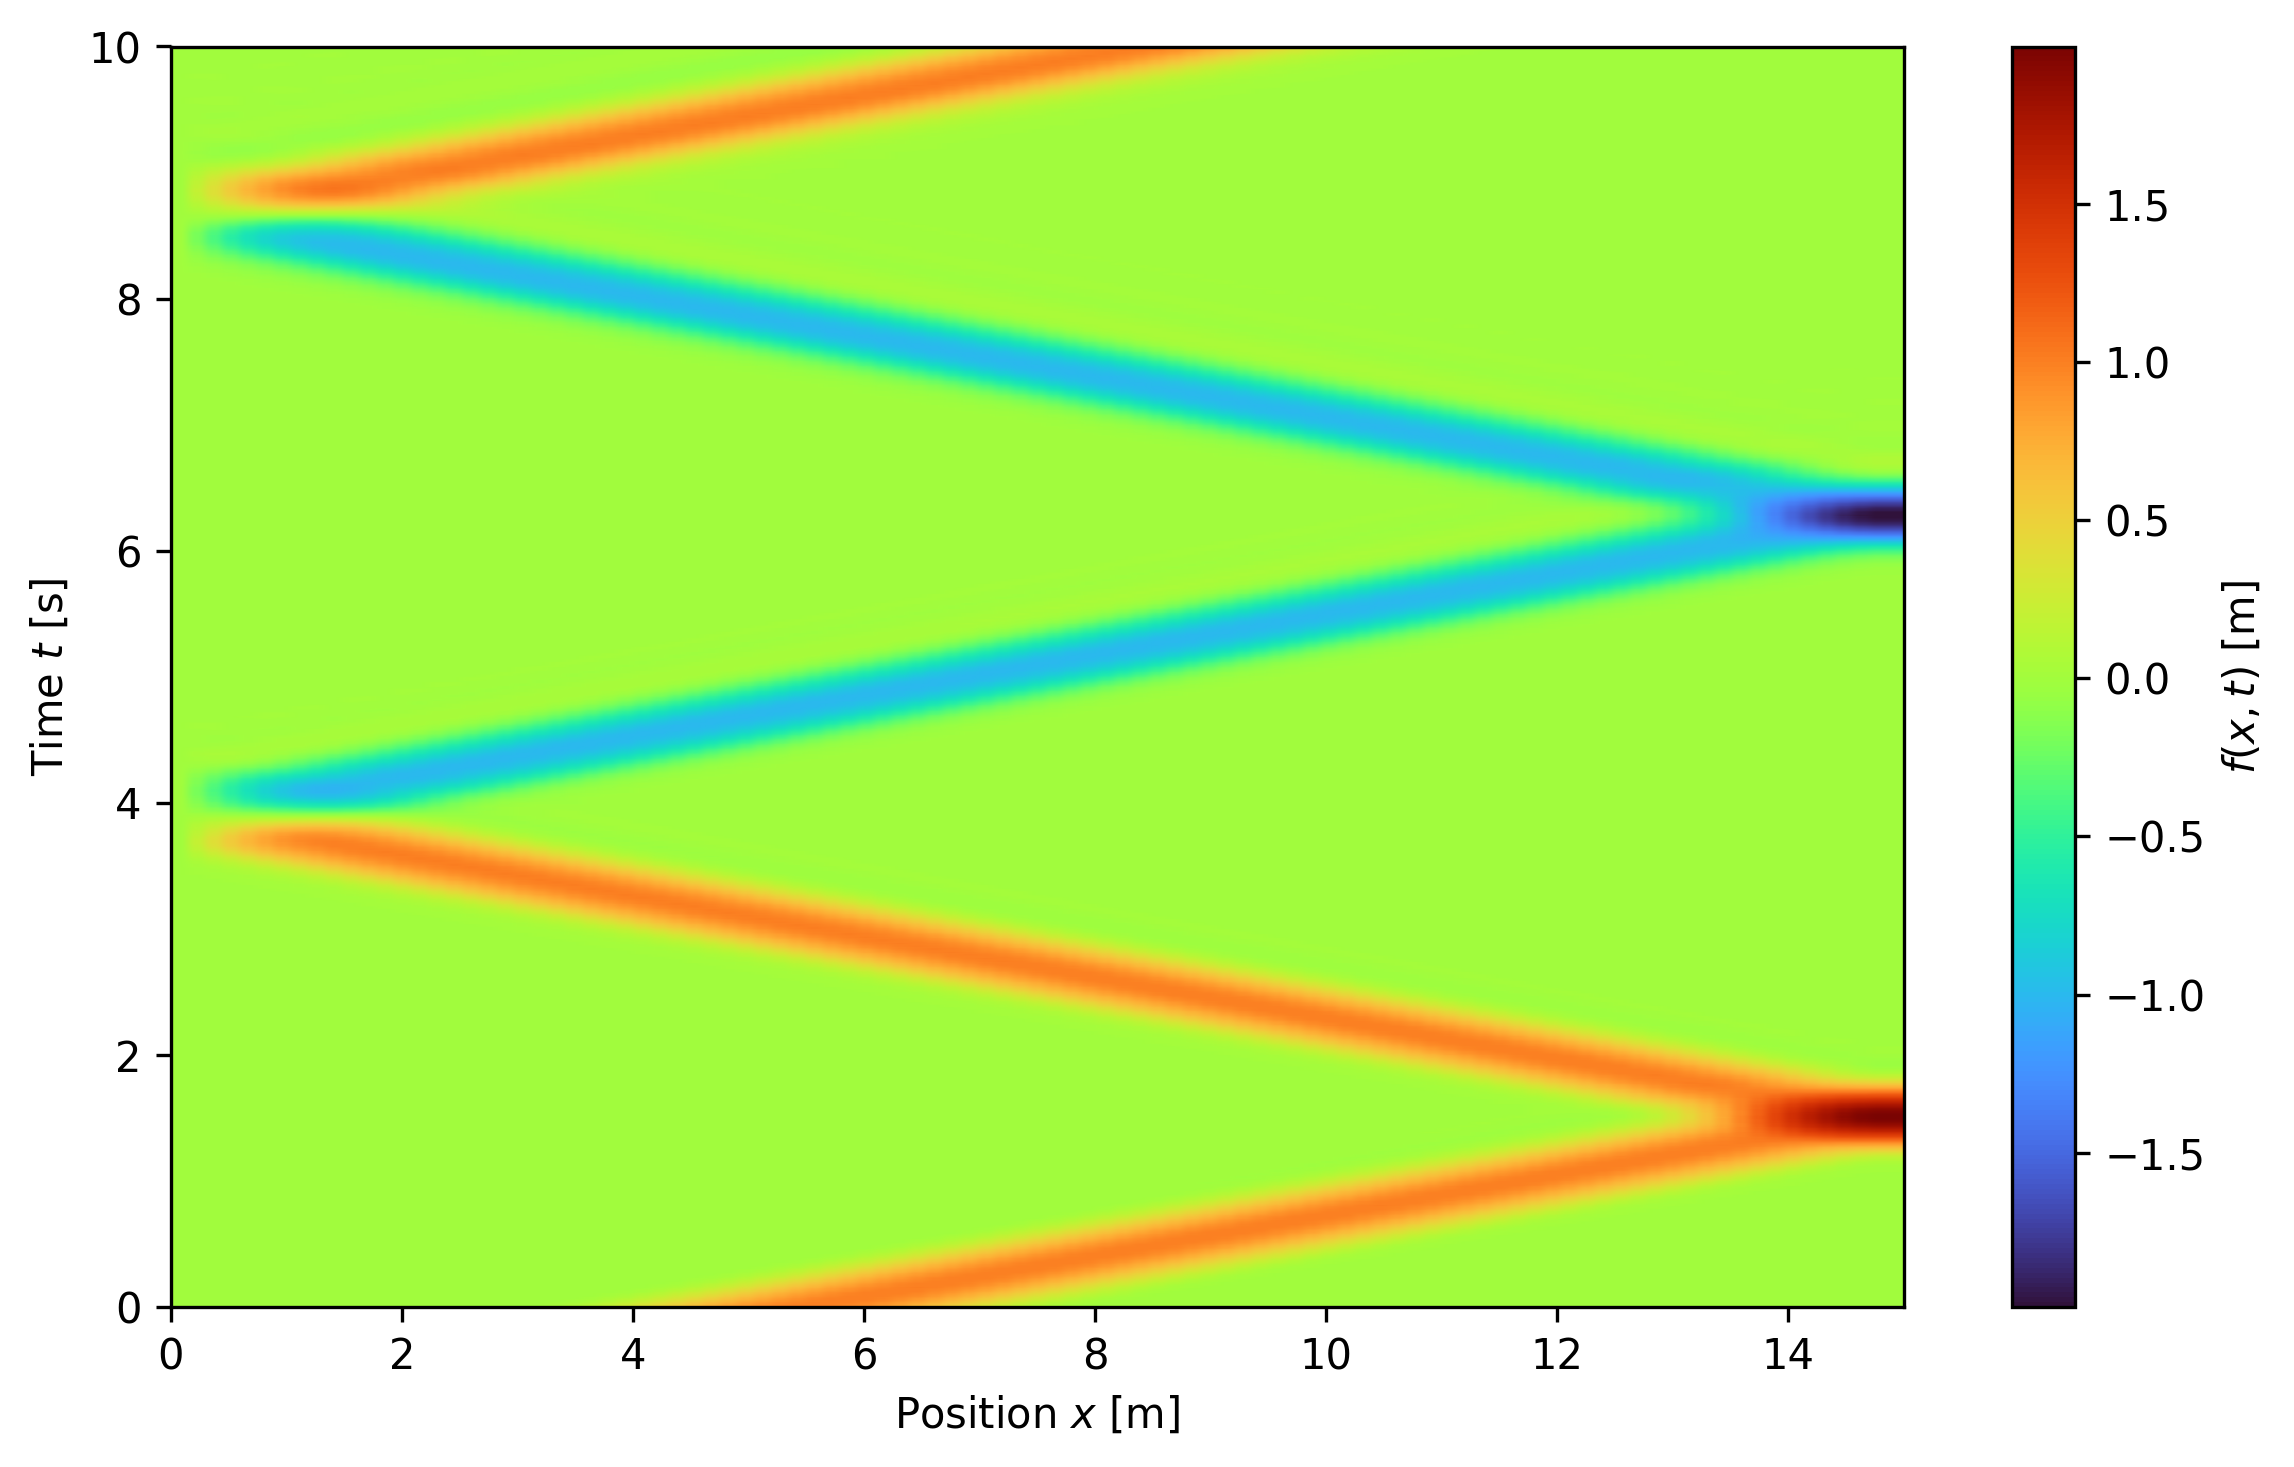
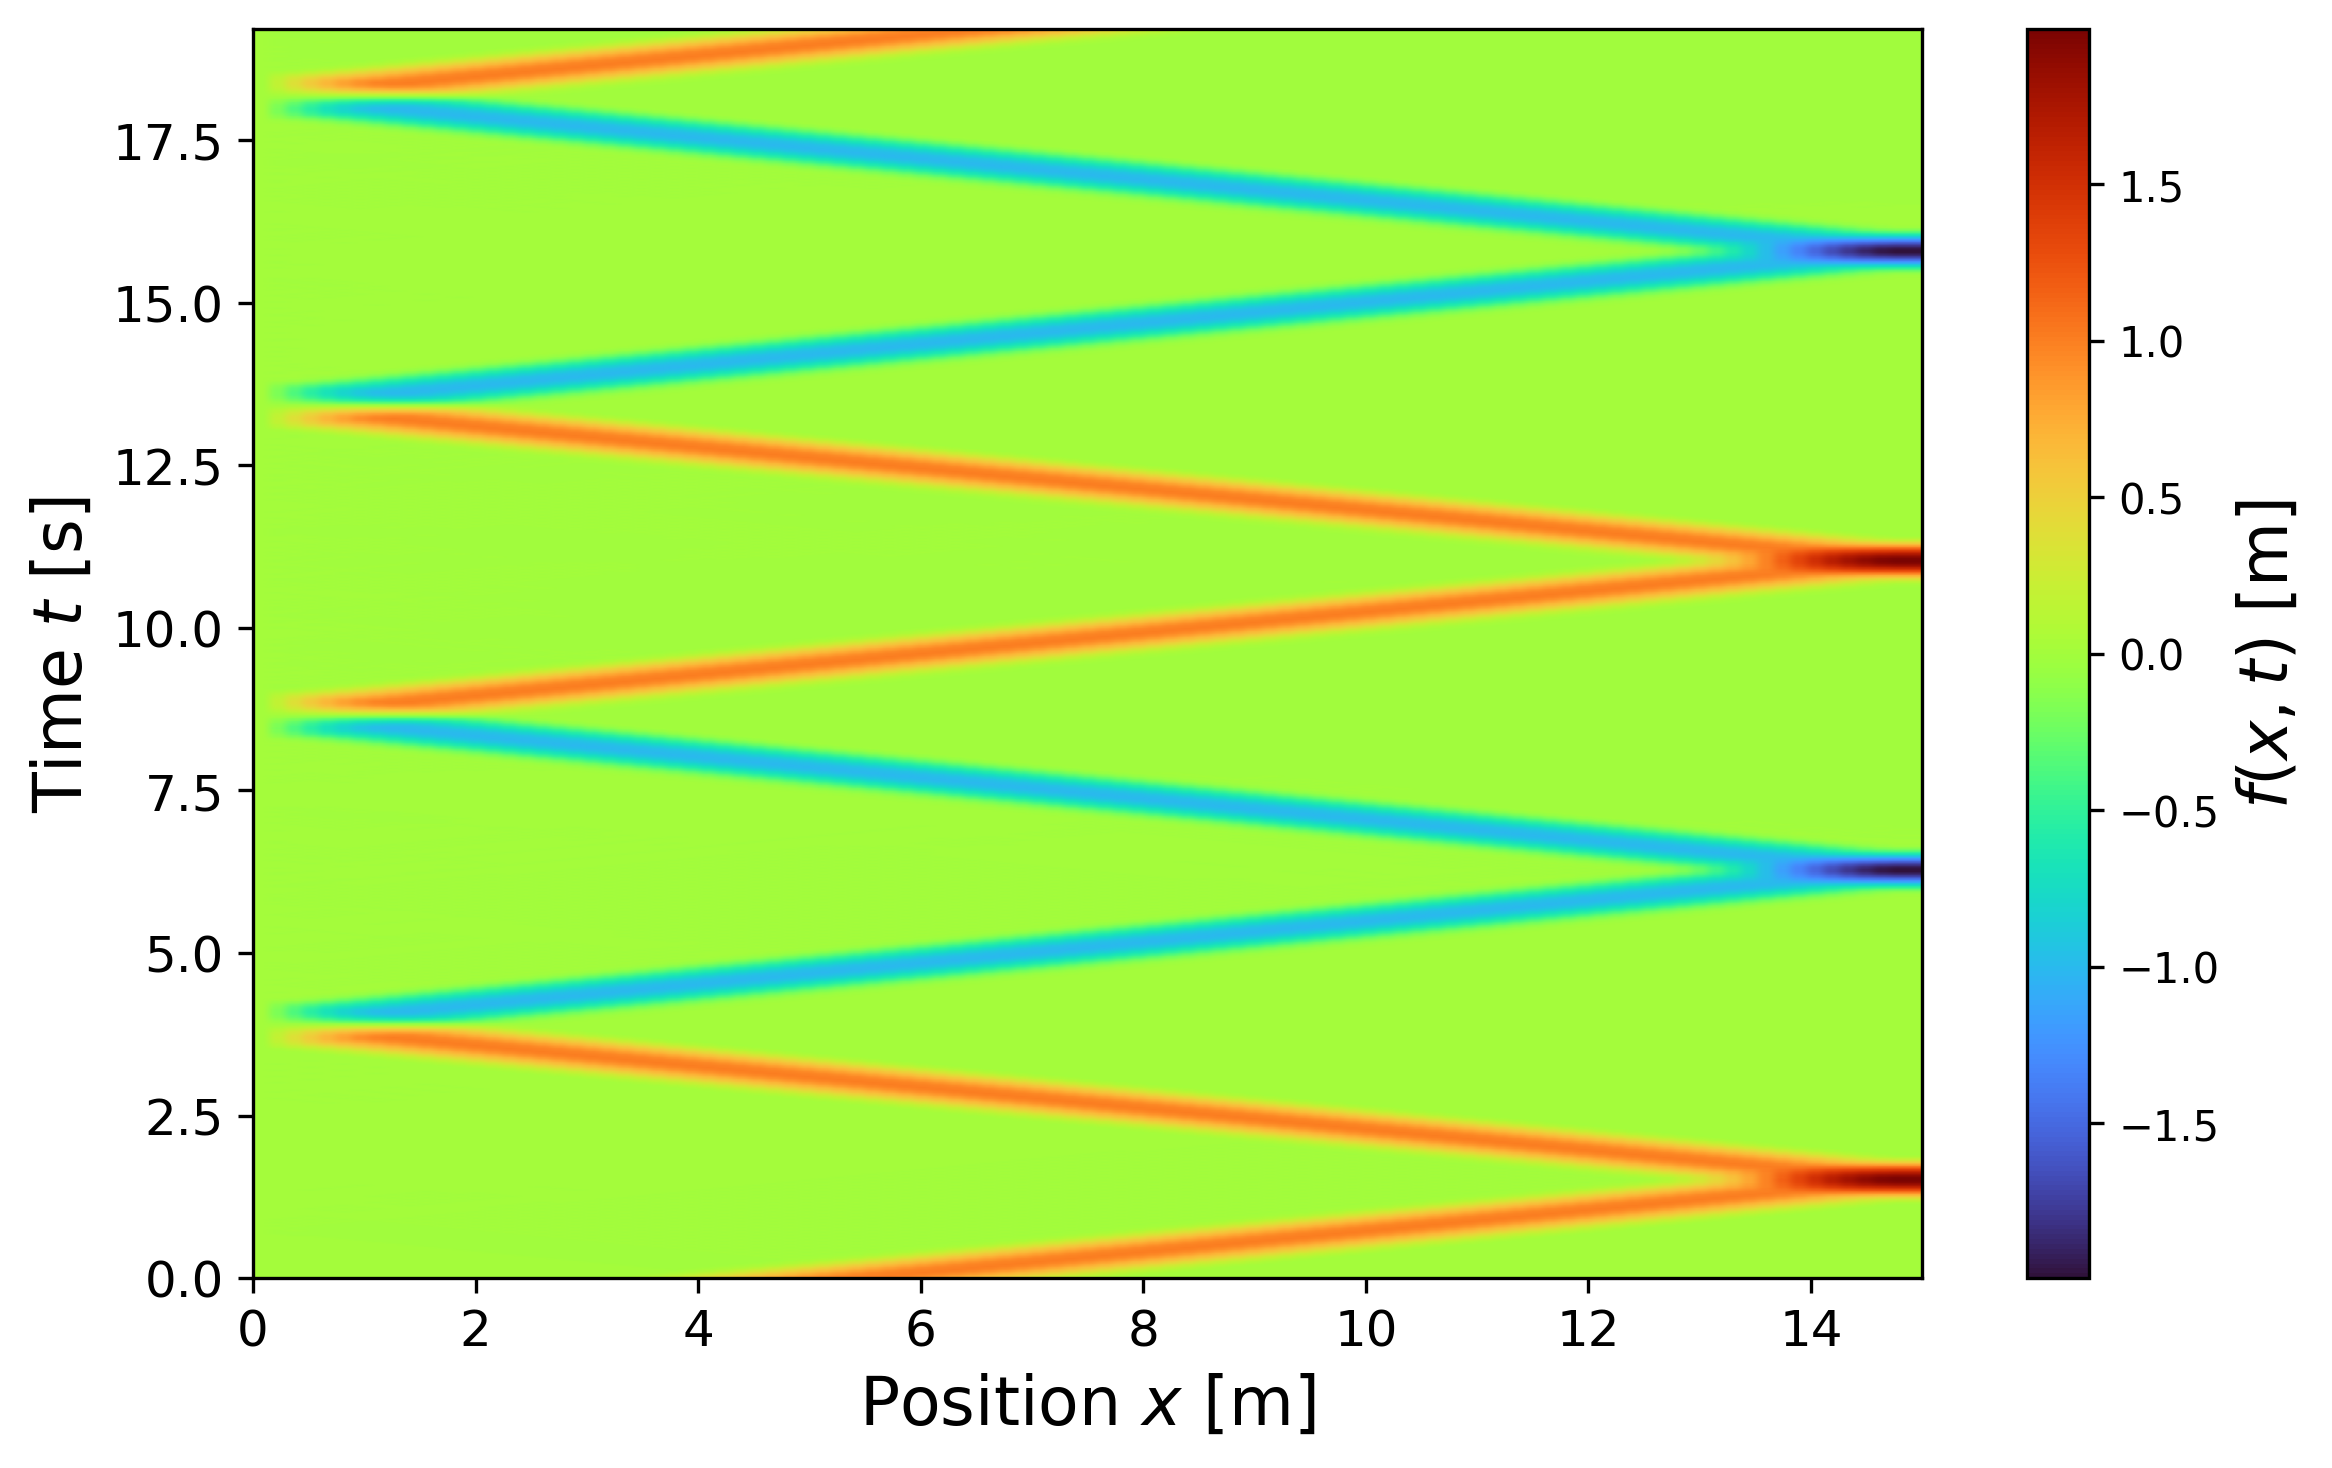
suites questions 5.3

diff --git a/question_5_3_AB.py b/question_5_3_AB.py
@@ -19,13 +19,14 @@ params = fct.read_in_file(input_filename)
  output, n_stride, ecrire_f,
  hL, hR, h00, xa, xb, L, om) = fct.get_wave_params(params)
 
-#cases = ["left", "right", "static"]
-cases = ["left"]
+
+cases = ["left", "right", "static"]
+#cases = ["left"]
 
 
 os.makedirs("outputs", exist_ok=True)
 
-'''
+
 # Run simulations
 for case in cases:
     current_params = params.copy()
@@ -45,12 +46,15 @@ for case in cases:
             f_plot = f
 
         plt.figure(figsize=(8, 5))
-        plt.imshow(f_plot, aspect='auto',
-                   extent=[t[0], t[-1], x[0], x[-1]],
-                   origin='lower', cmap='turbo')
-        plt.colorbar(label=r"$f(x,t)$ [m]")
-        plt.xlabel(r"Time $t$ [s]")
-        plt.ylabel(r"Position $x$ [m]")
+        im = plt.imshow(f_plot, aspect='auto',
+                        extent=[t[0], t[-1], x[0], x[-1]],
+                        origin='lower', cmap='turbo')
+        cbar = plt.colorbar(im)
+        cbar.set_label(r"$f(x,t)$ [m]", fontsize=16)
+        plt.xlabel(r"Time $t$ [s]", fontsize=16)
+        plt.ylabel(r"Position $x$ [m]", fontsize=16)
+        plt.xticks(fontsize=12)  
+        plt.yticks(fontsize=12)
         plt.tight_layout()
         fct.save_figure(f"wave_{case}_x_vs_t.png")
         plt.show()
@@ -67,12 +71,15 @@ for case in cases:
         else:
             f_plot = f
         plt.figure(figsize=(8, 5))
-        plt.imshow(f_plot.T, aspect='auto',  # transpose pour avoir t en y
-                   extent=[x[0], x[-1], t[0], t[-1]],
-                   origin='lower', cmap='turbo')
-        plt.colorbar(label=r"$f(x,t)$ [m]")
-        plt.xlabel(r"Position $x$ [m]")
-        plt.ylabel(r"Time $t$ [s]")
+        im = plt.imshow(f_plot.T, aspect='auto',
+                        extent=[x[0], x[-1], t[0], t[-1]],
+                        origin='lower', cmap='turbo')
+        cbar = plt.colorbar(im)
+        cbar.set_label(r"$f(x,t)$ [m]", fontsize=16)
+        plt.xlabel(r"Position $x$ [m]", fontsize=16)
+        plt.ylabel(r"Time $t$ [s]", fontsize=16)
+        plt.xticks(fontsize=12)  
+        plt.yticks(fontsize=12)
         plt.tight_layout()
         fct.save_figure(f"wave_{case}_t_vs_x.png")
         plt.show()
@@ -85,7 +92,7 @@ for case in cases:
 
 
 # Valeurs de CFL à tester
-beta_values = [0.5, 1.0, 1.0003]  #For static initial state
+beta_values = [0.1, 1.0, 1.0003]  #For static initial state
  
 
 os.makedirs("outputs", exist_ok=True)
@@ -98,7 +105,7 @@ for beta in beta_values:
     fct.run_simulation(executable, "config_5_3a.in", output_name, **current_params)
 
 # Visualisation des résultats
-plt.figure(figsize=(12, 8))
+plt.figure()
 
 for beta in beta_values:
     x, t, f, _, _ = fct.read_wave_data(f"outputs/wave_beta_{beta}")
@@ -113,9 +120,11 @@ for beta in beta_values:
         t_idx = len(t) // 2
         plt.plot(x, f_plot[:, t_idx], label=f"β = {beta}")
 
-plt.xlabel(r"Position $x$ [m]")
-plt.ylabel(r"$f(x, t=t_{fin}/2)$ [m]")
-plt.legend()
+plt.xlabel(r"Position $x$ [m]",fontsize=16)
+plt.ylabel(r"$f(x, t=t_{fin}/2)$ [m]",fontsize=16)
+plt.xticks(fontsize=12)  
+plt.yticks(fontsize=12)
+plt.legend(fontsize=14)
 plt.grid(True)
 plt.tight_layout()
 fct.save_figure("stability_limit_beta.png")
@@ -150,20 +159,20 @@ colors = ['tab:blue', 'tab:orange', 'tab:green']
 idx_times = [np.abs(t - target).argmin() for target in target_times]
 
 # Plot
-plt.figure(figsize=(10, 6))
+plt.figure()
 for i, idx in enumerate(idx_times):
-    plt.plot(x, f_plot[:, idx], color=colors[i], label=fr"$t = {t[idx]:.4f}$ s, β = {beta}")
+    plt.plot(x, f_plot[:, idx], color=colors[i], label=fr"$t = {t[idx]:.4f}$ s")
     
-
-plt.xlabel(r"Position $x$ [m]")
-plt.ylabel(r"$f(x, t)$ [m]")
-plt.legend()
+    
+plt.plot([], [], ' ', label=fr"$\beta = {beta}$")
+plt.xlabel(r"Position $x$ [m]",fontsize=16)
+plt.ylabel(r"$f(x, t)$ [m]",fontsize=16)
+plt.xticks(fontsize=12)  
+plt.yticks(fontsize=12)
+plt.legend(fontsize=14)
 plt.grid(True)
 plt.tight_layout()
 
 fct.save_figure("stability_snapshots_beta_1.0003.png")
 plt.show()
-'''
 
-
-#QUESTION C

diff --git a/Ex5.cpp b/Ex5.cpp
@@ -227,10 +227,10 @@ int main(int argc, char* argv[])
       fpast[i] = fnow[i]; 
     }
     else if(initial_state =="right"){ 
-      fpast[i] = finit(x[i] - sqrt(vel2[i])*dt, n_init, L, f_hat, x1, x2, initialization); //ou -???
+      fpast[i] = finit(x[i] - sqrt(vel2[i])*dt, n_init, L, f_hat, x1, x2, initialization); 
     }
     else if(initial_state =="left"){
-      fpast[i] = finit(x[i] + sqrt(vel2[i])*dt, n_init, L, f_hat, x1, x2, initialization); //ou +???
+      fpast[i] = finit(x[i] + sqrt(vel2[i])*dt, n_init, L, f_hat, x1, x2, initialization); 
     }
   }
 
